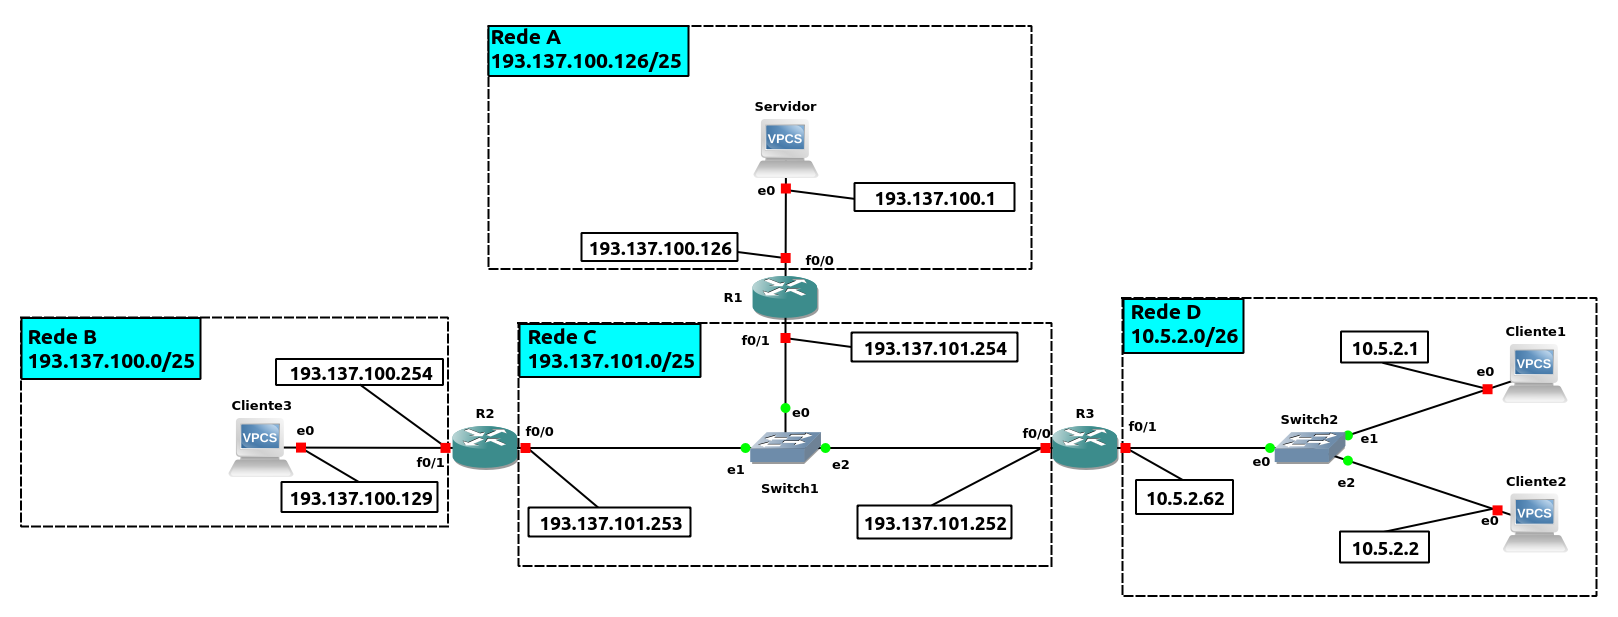
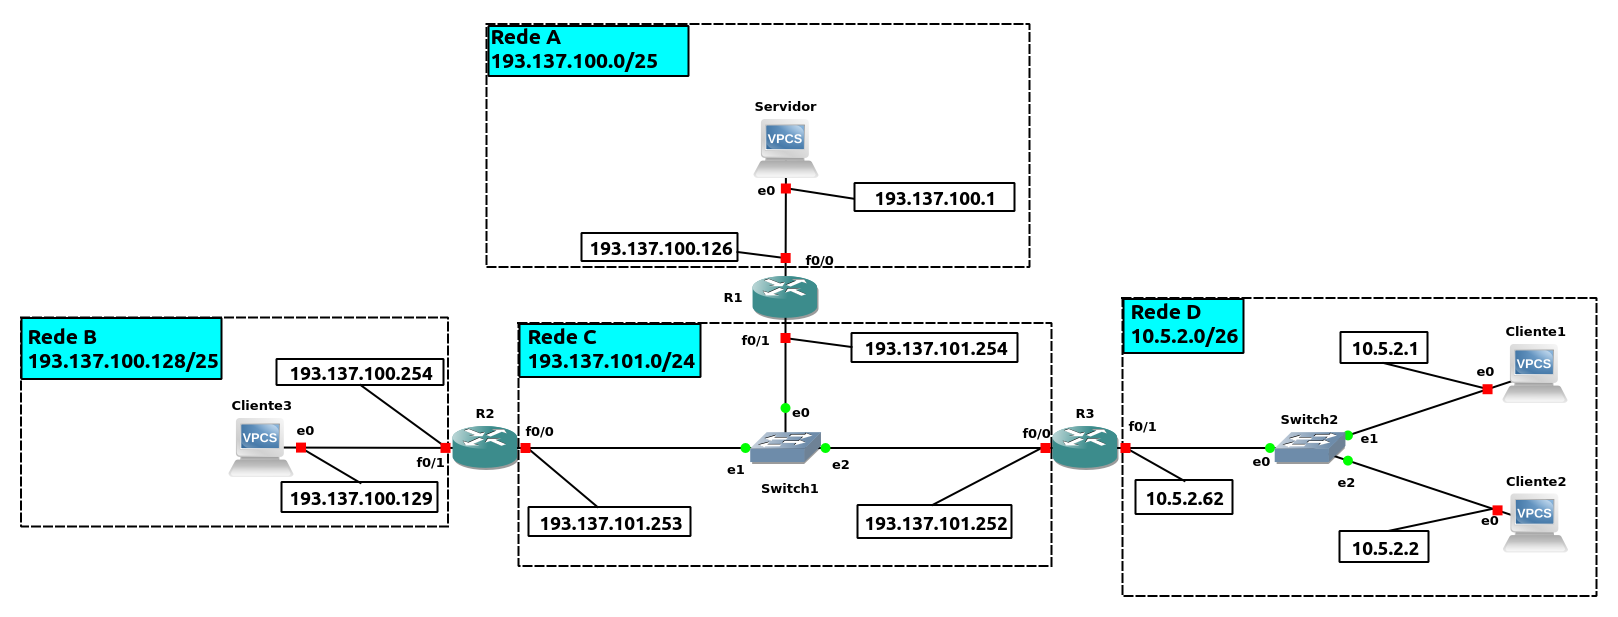
docs: add topology document to explain how the networks were computed

diff --git a/docs/topology.md b/docs/topology.md
@@ -1,0 +1,247 @@
+# Topology
+
+![Topology before calculating networks and
+ips](/project-files/images/topology-undefined.png)
+
+At the IPv4 addressing level, the following requirements must be taken into
+account when configuring the communications scenario:
+
+1. The network to which Client1 and Client2 belong (Network D) uses private
+  addresses, and router R3 implements NAT. Use the **10.5.2.0/26** network to
+  address all interfaces on Network D.
+
+## Network D
+
+$10.5.2.0_{10} = 0000 1010.0000 0101.0000 0010.0000 0000_{2}$
+
+### Network D - Subnet Mask
+
+$/26 = 11111111.11111111.11111111.11000000_{2} = 255.255.255.192_{10}$
+
+### Network D - Wildcard Mask
+
+$00000000.00000000.00000000.00111111_{2} = 0.0.0.63_{10}$
+
+### Network D - Lowest ip address on this network
+
+$0000 1010.0000 0101.0000 0010.0000 0001_{2} = 10.5.2.1_{10}$
+
+### Network D - Highest ip address (excluding broadcast)
+
+$0000 1010.0000 0101.0000 0010.0011 1110_{2} = 10.5.2.62_{10}$
+
+### Network D - Broadcast ip address
+
+$0000 1010.0000 0101.0000 0010.0011 1111_{2} = 10.5.2.63_{10}$
+
+Network D:
+
+|                                       |                      |
+| ---                                   | ---                  |
+| Ip Address                            | 10.5.2.0             |
+| Subnet Mask (Dotted decimal notation) | 255.255.255.192      |
+| Subnet Mask (CIDR notation)           | /26                  |
+| Wildcard Mask                         | 0.0.0.63             |
+| Usable Host IP Range                  | 10.5.2.1 - 10.5.2.62 |
+| Broadcast Address                     | 10.5.2.63            |
+
+2. Use the network **193.137.100.0/23** to address networks A, B and C. When
+   dividing, ensure that `Network C` has **more** available addresses than the
+   rest and that `Network A` has the **lowest addresses in the range**. In this
+   division you should not waste addresses.
+
+## Subnet
+
+To achieve this, we will have to divide the network `193.137.100.0/23` using
+subnetting.
+We can start by dividing the network in 2 networks and pick one with the highest
+addresses to divide again.
+
+```
+/23
+  ├── 1. /24
+  │        ├── 3. /25 (A)
+  │        └── 4. /25 (B)
+  └── 2. /24 (C)
+```
+
+$193.137.100.0_{10} = 1100 0001.1000 1001.0110 0100.0000 0000_{2}$
+
+$/23 = 11111111.11111111.11111110.00000000_{2} = 255.255.254.0_{10}$
+
+Now we will subnet the network `193.137.100.0/23` into 2 networks. We will place
+in the 24th bit 0 for network 1 (in the tree graph) and in the 24th bit 1 for
+network 2.
+
+Network 1:
+$1100 0001.1000 1001.0110 0100.0000 0000_{2} = 193.137.100.0_{10}$
+
+Network 2:
+$1100 0001.1000 1001.0110 0101.0000 0000_{2} = 193.137.101.0_{10}$
+
+### Network C
+
+Network 2 `193.137.101.0/24` will be assigned to Network C in our topology.
+
+#### Network C - Subnet Mask
+
+$/24 = 11111111.11111111.11111111.00000000_{2} = 255.255.255.0_{10}$
+
+#### Network C - Wildcard Mask
+
+$00000000.00000000.00000000.11111111_{2} = 000.000.000.255_{10}$
+
+#### Network C - Lowest IP Address
+
+$1100 0001.1000 1001.0110 0101.0000 0001_{2} = 193.137.101.1_{10}$
+
+#### Network C - Highest IP Address
+
+$1100 0001.1000 1001.0110 0101.1111 1110_{2} = 193.137.101.254_{10}$
+
+#### Network C - Broadcast
+
+$1100 0001.1000 1001.0110 0101.1111 1111_{2} = 193.137.101.255_{10}$
+
+Network C:
+
+|                                       |                                 |
+| ---                                   | ---                             |
+| Ip Address                            | 193.137.101.0                   |
+| Subnet Mask (Dotted decimal notation) | 255.255.255.0                   |
+| Subnet Mask (CIDR notation)           | /24                             |
+| Wildcard Mask                         | 0.0.0.255                       |
+| Usable Host IP Range                  | 193.137.101.1 - 193.137.101.254 |
+| Broadcast Address                     | 193.137.101.255                 |
+
+Now we will pick network 1 `193.137.100.0/24` and subnet it into more 2 networks
+`/25` and place in the 25th bit 0 for network 3 (having the lowest ip addresses
+in all range of `193.137.100.0/23`) and in the 25th bit 1 for network 4.
+
+Network 3 will be assigned to A and network 4 assigned to B.
+
+### Network A
+
+$1100 0001.1000 1001.0110 0100.0000 0000_{2} = 193.137.100.0_{10}$
+
+#### Network A - Subnet Mask
+
+$/25 = 11111111.11111111.11111111.10000000_{2} = 255.255.255.128_{10}$
+
+#### Network A - Wildcard Mask
+
+$00000000.00000000.00000000.01111111_{2} = 0.0.0.127_{10}$
+
+#### Network A - Lowest IP Address
+
+$1100 0001.1000 1001.0110 0100.0000 0001_{2} = 193.137.100.1_{10}$
+
+#### Network A - Highest IP Address
+
+$1100 0001.1000 1001.0110 0100.011111110_{2} = 193.137.100.126_{10}$
+
+#### Network A - Broadcast
+
+$1100 0001.1000 1001.0110 0100.011111111_{2} = 193.137.100.127_{10}$
+
+Network A:
+
+|                                       |                                 |
+| ---                                   | ---                             |
+| Ip Address                            | 193.137.100.0                   |
+| Subnet Mask (Dotted decimal notation) | 255.255.255.128                 |
+| Subnet Mask (CIDR notation)           | /25                             |
+| Wildcard Mask                         | 0.0.0.127                       |
+| Usable Host IP Range                  | 193.137.100.1 - 193.137.100.126 |
+| Broadcast Address                     | 193.137.100.127                 |
+
+### Network B
+
+$1100 0001.1000 1001.0110 0100.1000 0000_{2} = 193.137.100.128_{10}$
+
+#### Network B - Subnet Mask
+
+$/25 = 11111111.11111111.11111111.10000000_{2} = 255.255.255.128_{10}$
+
+#### Network B - Wildcard Mask
+
+$00000000.00000000.00000000.01111111_{2} = 0.0.0.127_{10}$
+
+#### Network B - Lowest IP Address
+
+$1100 0001.1000 1001.0110 0100.1000 0001_{2} = 193.137.100.129_{10}$
+
+#### Network B - Highest IP Address
+
+$1100 0001.1000 1001.0110 0100.111111110_{2} = 193.137.100.254_{10}$
+
+#### Network B - Broadcast
+
+$1100 0001.1000 1001.0110 0100.111111111_{2} = 193.137.100.255_{10}$
+
+Network B:
+
+|                                       |                                   |
+| ---                                   | ---                               |
+| Ip Address                            | 193.137.100.128                   |
+| Subnet Mask (Dotted decimal notation) | 255.255.255.128                   |
+| Subnet Mask (CIDR notation)           | /25                               |
+| Wildcard Mask                         | 0.0.0.127                         |
+| Usable Host IP Range                  | 193.137.100.129 - 193.137.100.254 |
+| Broadcast Address                     | 193.137.100.255                   |
+
+3. All equipment must be assigned appropriate IP addresses, within the agreed
+  subnet range.
+
+With all the network computed, we can now assign the lowest ip addresses of a
+given network for the terminal devices interfaces and highest ip addresses of a
+network for the routers' interfaces
+
+Network A:
+
+|                                       |                                 |
+| ---                                   | ---                             |
+| Ip Address                            | 193.137.100.0                   |
+| Subnet Mask (Dotted decimal notation) | 255.255.255.128                 |
+| Subnet Mask (CIDR notation)           | /25                             |
+| Wildcard Mask                         | 0.0.0.127                       |
+| Usable Host IP Range                  | 193.137.100.1 - 193.137.100.126 |
+| Broadcast Address                     | 193.137.100.127                 |
+
+Network B:
+
+|                                       |                                   |
+| ---                                   | ---                               |
+| Ip Address                            | 193.137.100.128                   |
+| Subnet Mask (Dotted decimal notation) | 255.255.255.128                   |
+| Subnet Mask (CIDR notation)           | /25                               |
+| Wildcard Mask                         | 0.0.0.127                         |
+| Usable Host IP Range                  | 193.137.100.129 - 193.137.100.254 |
+| Broadcast Address                     | 193.137.100.255                   |
+
+Network C:
+
+|                                       |                                 |
+| ---                                   | ---                             |
+| Ip Address                            | 193.137.101.0                   |
+| Subnet Mask (Dotted decimal notation) | 255.255.255.0                   |
+| Subnet Mask (CIDR notation)           | /24                             |
+| Wildcard Mask                         | 0.0.0.255                       |
+| Usable Host IP Range                  | 193.137.101.1 - 193.137.101.254 |
+| Broadcast Address                     | 193.137.101.255                 |
+
+Network D:
+
+|                                       |                      |
+| ---                                   | ---                  |
+| Ip Address                            | 10.5.2.0             |
+| Subnet Mask (Dotted decimal notation) | 255.255.255.192      |
+| Subnet Mask (CIDR notation)           | /26                  |
+| Wildcard Mask                         | 0.0.0.63             |
+| Usable Host IP Range                  | 10.5.2.1 - 10.5.2.62 |
+| Broadcast Address                     | 10.5.2.63            |
+
+In addition to communication, router R3 must support SNAT (Source NAT), where
+the network of Client1 and Client2 is the internal network.
+
+![Topology](/project-files/images/topology.png)
